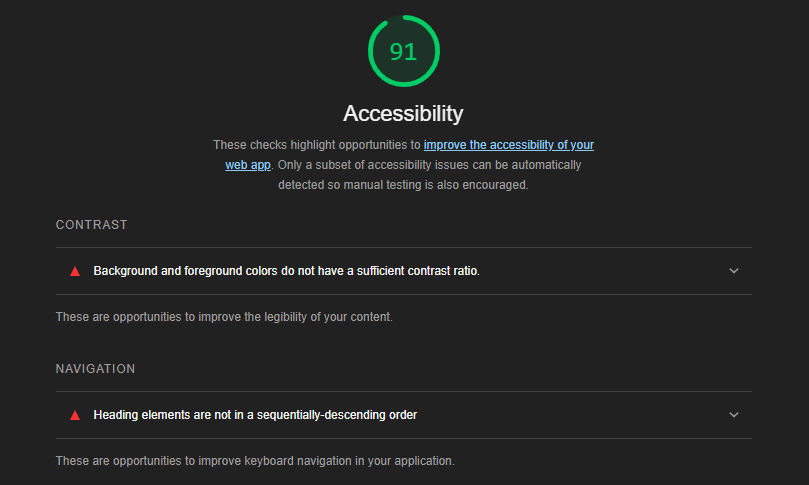
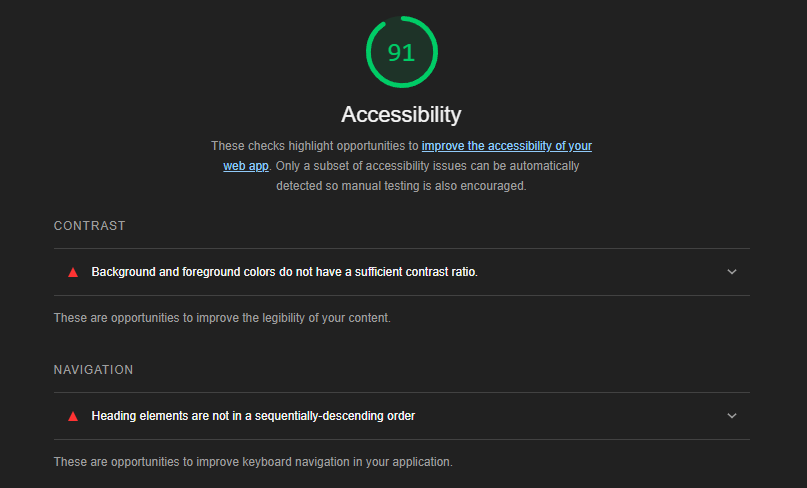
added lighthouse results to readme

diff --git a/script.js b/script.js
@@ -186,9 +186,5 @@ function quiz(){
         alert("Thank you for taking the quiz! You scored " + score + "/5!")
     }
 
-
-    
-    
-    
-    return ans1, ans2, ans3, ans4, ans5, score;
+    return ans1, ans2, ans3, ans4, ans5, ans6, ans7, score;
 }

diff --git a/README.md b/README.md
@@ -1,1 +1,2 @@
-# 201-02-demo
+![My lighthouse score](lighthouse1.PNG)
+I'm happy with a score of 91 for my personal site. I understand the first point about colour contrast and will be sure to make sites easier to read when making more professional stuff. I'll take a look into the heading elements.
